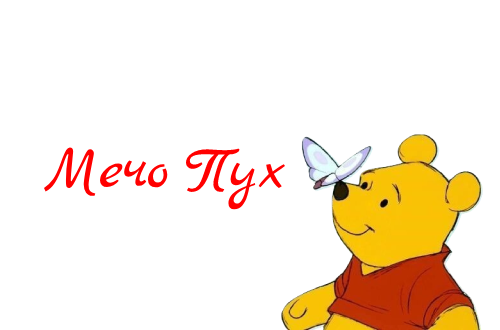
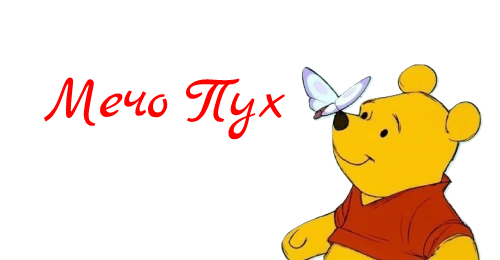
Offers Page is not started.

diff --git a/Style.css b/Style.css
@@ -1,12 +1,11 @@
 :root {
-	--primary-color:#F1F1F1;
-	--secondary-color:#710016;
-	--trird-color:#0A0A0A;
-	--main-text-color:#FFF:
+	--primary-color: #f9ca26;
+	--trird-color: #0A0A0A;
+	--white-text: #FFF;
 }
 
 body {
-	color:var(--main-text-color);
+	color: var(--white-text);
   width: 100%;
   margin: 0;
 	font-size: 87.5%;
@@ -16,12 +15,13 @@ body {
 	text-align: left;
 }
 
-a{
+a {
+	font-size: 1.5vw;
   text-decoration:none;
 }
 
 a:link, a:visited {
-	color: #0A0A0A;
+	color: var(--white-text);
 }
 
 a:hover, a:active {
@@ -43,55 +43,40 @@ h2 {
 }
 
 .mainHeader nav {
-	background-color: var(--primary-color);
+	background-color: pink;
 }
 
 .mainHeader nav ul {
 	grid-template-columns: repeat(auto-fit, minmax(91px, 1fr));
 	display: grid;
 	align-content: center;
-	grid-column-gap: 9px;
-	grid-row-gap: 10px;
 	list-style: none;
+	padding: 0;
 	margin: 0 auto;
 }
 
 .mainHeader nav ul li {
-	float: left;
+	text-align: center;
 	display: inline;
 	list-style: none;
 }
 
 .mainHeader nav a:link, .mainHeader nav a:visited {
-	color: var(--text-color);
+	color: var(--white-text);
 	display: inline-block;
-	padding: 10px 25px;
-	height: 20px;
+	padding: 5% 30%;
+
 }
 
 .mainHeader nav a:hover, .mainHeader nav a:active, .mainHeader nav .active a:link, .mainHeader nav .active a:visited {
-	background-color: var(--secondary-color);
+	background-color: var(--primary-color);
 	text-shadow: none;
 }
 
 .mainHeader nav ul li a {
-	border-radius: 5px;
-	-noz-border-radius: 5px;
-	-wedkit-border-radius: 5px;
-}
-
-.Title {
-    background-color: var(--trird-color);
-    position: absolute;
-    top: 20%;
-    left: 10%;
-    padding: 20px;
-    text-align: center;
-    color: #FFF;
-    font-size: 2vw;
-    font-family: 'Pangolin', cursive;
-    border-radius: 10px;
-    letter-spacing: 8px;
+	border-radius: 15px;
+	-noz-border-radius: 15px;
+	-wedkit-border-radius: 15px;
 }
 
 .Header {

diff --git a/index.htm b/index.htm
@@ -26,10 +26,15 @@
           </nav>
       	</header>
         <div class="Header">
-                <h1 class="Title">Мечо Пух</h1>
         </div>
     	<div class="mainContent">
     		<div class="Content">
+          <article class="Two">
+              <header>
+                <h2><a href="#" title="Second post">Промоции</a></h2>
+              </header>
+         <p>Учебно-тренировъчна фирма "Мечо Пух" ООД е създадена през 2018 г. и симулира дейността на реално действащо предприятие, занимаващо се с продажба на детски стоки.</p>
+          </article>
           <header>
             <h2><a href="#" title="First post">ОФЕРТИ</a></h2>
           </header>
@@ -59,12 +64,6 @@
               </div>
             </div>
           </div>
-                <article class="Two">
-                    <header>
-                      <h2><a href="#" title="Second post">Промоции</a></h2>
-    				</header>
-    					 <p>Учебно-тренировъчна фирма "Мечо Пух" ООД е създадена през 2018 г. и симулира дейността на реално действащо предприятие, занимаващо се с продажба на детски стоки.</p>
-                </article>
                 <article class="Three">
                     <header>
     					             <h2><a href="#" title="Second post">Избрани продукти</a></h2>
